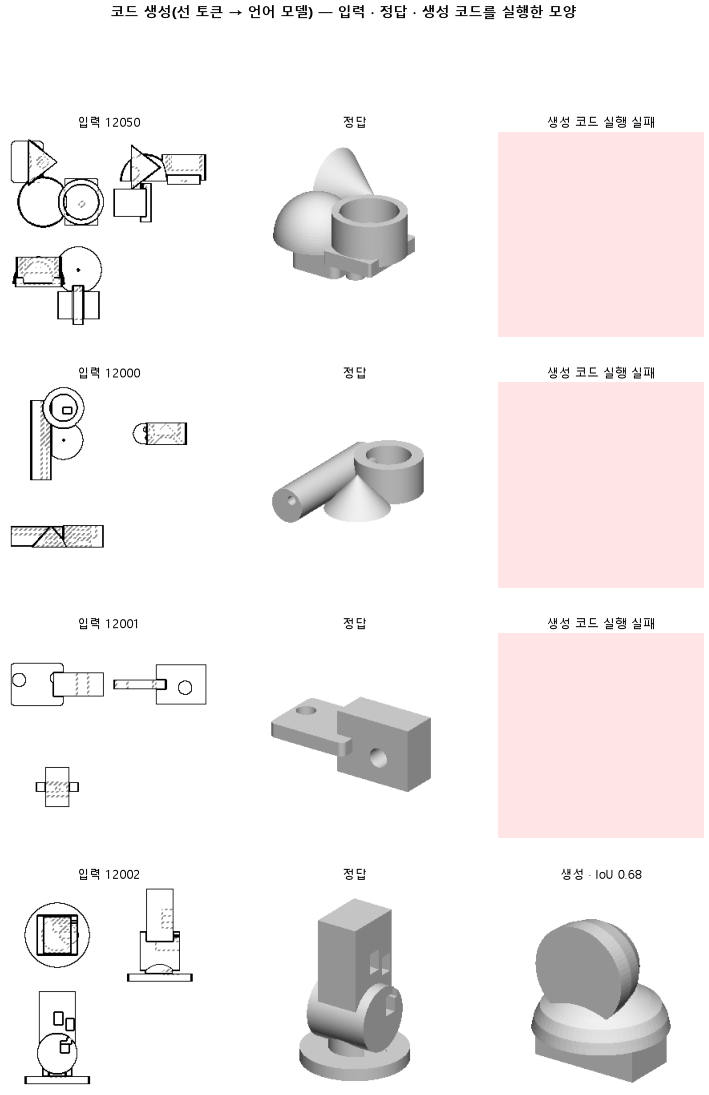
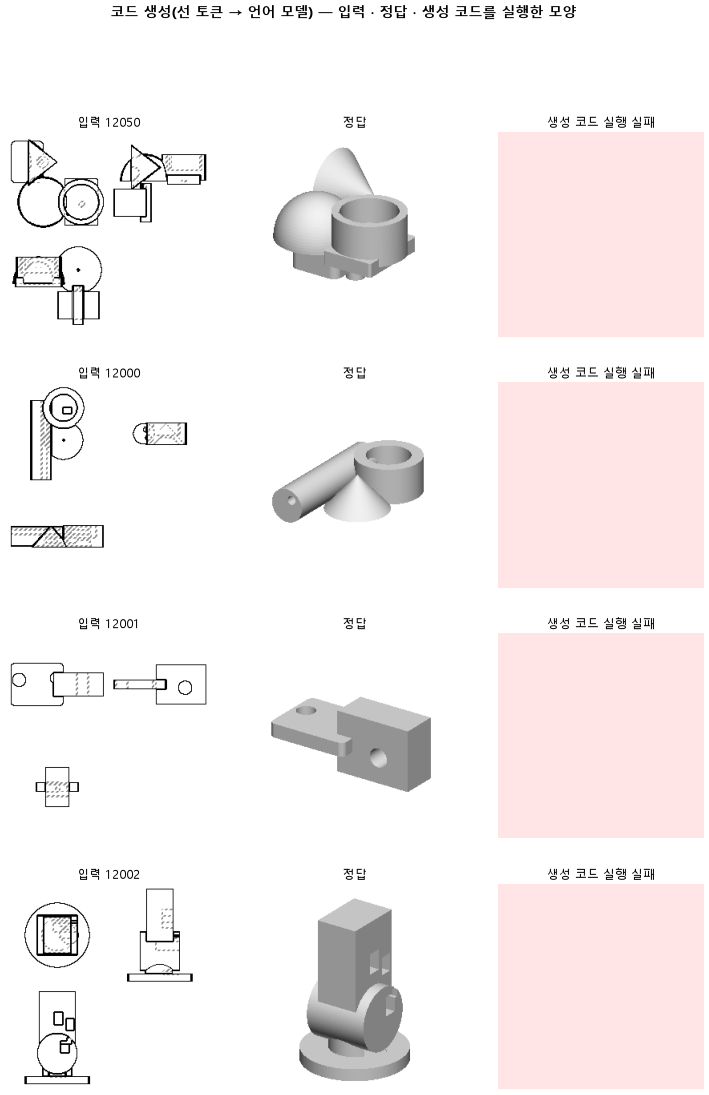
비교판 「코드」 147 참가 — 146 도면 0.500 · 147 좌표토큰 0.481 · 145 선글 0.000 · 보류(시드 1 · 1·2 위 차 +0.019 는 잡음 폭 안)
Claude-Session: https://claude.ai/code/session_01Bej1MYBJkDkDWD4aJ8vZPo

Changed region(s): [[0.6827, 0.7763, 0.9929, 1.0]]

diff --git a/docs/비교/코드/index.html b/docs/비교/코드/index.html
@@ -3,8 +3,8 @@
 body{margin:0;background:var(--bg);color:var(--ink);font:15px/1.6 "Malgun Gothic",sans-serif;word-break:keep-all}main{max-width:1080px;margin:0 auto;padding:40px max(16px,env(safe-area-inset-left,0px)) 80px;display:grid;gap:24px}a{color:inherit}.note{color:var(--muted);font-size:12.5px}.tag{font-size:11px;padding:2px 7px;border-radius:999px;background:var(--chip);color:var(--muted)}
 .box{background:var(--sheet);border:1px solid var(--rule);border-radius:12px;padding:18px 20px}table{border-collapse:collapse;width:100%;font-variant-numeric:tabular-nums}th,td{text-align:left;padding:8px 10px;border-bottom:1px solid var(--rule)}th{color:var(--muted)}.pill{font-weight:700;padding:4px 12px;border-radius:999px;background:var(--chip)}
 .cards{display:grid;grid-template-columns:repeat(auto-fill,minmax(300px,1fr));gap:12px}.card{border:1px solid var(--rule);border-radius:10px;padding:12px;display:grid;gap:8px}.card video,.card img{width:100%;border-radius:8px}</style></head><body><main>
-<nav><a href="../../index.html">← 판 목록</a></nav><header><span class="tag">비교판 · 2026-10-24</span><h1>도면을 언어 모델에 넘길 때 우리 선 토큰이 그림 그대로(ViT)보다 나은 코드를 쓰게 하나</h1></header>
-<div><span class="pill">보류</span> 시드 1 번 — 흔들림 폭을 몰라 이김을 정하지 않음 · 1 위 146도면코드 · 2 위와 차 +0.499</div>
-<section class="box"><table><thead><tr><th>방법</th><th>실루엣 IoU 중앙(주지표)</th><th>IoU 평균</th><th>코드 실행률</th></tr></thead><tbody><tr><td><a href="../../판/145선글코드/보고.html">선 토큰 → 언어 모델(우리 인코더)</a></td><td><b>0.000</b></td><td>0.237</td><td>0.455</td></tr><tr><td><a href="../../판/146도면코드/보고.html">도면 그림 → ViT → 언어 모델(순수 ViT)</a></td><td><b>0.499</b></td><td>0.468</td><td>0.870</td></tr><tr><td>판 127 덩어리 칸 디코더(코드 아님 · 같은 자) <span class=tag>참고 · 다른 판 기록</span></td><td>0.737</td><td>—</td><td>—</td></tr></tbody></table>
+<nav><a href="../../index.html">← 판 목록</a></nav><header><span class="tag">비교판 · 2026-10-25</span><h1>도면을 언어 모델에 넘길 때 우리 선 토큰이 그림 그대로(ViT)보다 나은 코드를 쓰게 하나</h1></header>
+<div><span class="pill">보류</span> 시드 1 번 — 흔들림 폭을 몰라 이김을 정하지 않음 · 1 위 146도면코드 · 2 위와 차 +0.019</div>
+<section class="box"><table><thead><tr><th>방법</th><th>실루엣 IoU 중앙(주지표)</th><th>IoU 평균</th><th>코드 실행률</th></tr></thead><tbody><tr><td><a href="../../판/145선글코드/보고.html">선 토큰 → 언어 모델(우리 인코더)</a></td><td><b>0.000</b></td><td>0.254</td><td>0.478</td></tr><tr><td><a href="../../판/146도면코드/보고.html">도면 그림 → ViT → 언어 모델(순수 ViT)</a></td><td><b>0.500</b></td><td>0.468</td><td>0.890</td></tr><tr><td><a href="../../판/147좌표토큰/보고.html">선 토큰(좌표 한 토큰) → 언어 모델</a></td><td><b>0.481</b></td><td>0.438</td><td>0.846</td></tr><tr><td>판 127 덩어리 칸 디코더(코드 아님 · 같은 자) <span class=tag>참고 · 다른 판 기록</span></td><td>0.737</td><td>—</td><td>—</td></tr></tbody></table>
 <p class="note">시험 부품 299 · 생성 코드를 실행 → 실루엣 IoU · 실행 실패 = 0</p></section>
-<section><div class="cards"><div class="card"><b>선 토큰 → 언어 모델(우리 인코더)</b><video src=code145.mp4 autoplay loop muted playsinline></video><img src="보기_145선글코드.png" alt="선 토큰 → 언어 모델(우리 인코더) — 입력 · 정답 · 생성 코드를 실행한 모양"><span class="note">선 목록을 글로 주고 언어 모델이 CadQuery 코드를 쓰게 한다</span><a href="../../판/145선글코드/보고.html">판 보고서 →</a></div><div class="card"><b>도면 그림 → ViT → 언어 모델(순수 ViT)</b><video src=code145.mp4 autoplay loop muted playsinline></video><img src="보기_146도면코드.png" alt="도면 그림 → ViT → 언어 모델(순수 ViT) — 입력 · 정답 · 생성 코드를 실행한 모양"><span class="note">도면 그림을 그대로 주고 언어 모델이 CadQuery 코드를 쓰게 한다</span><a href="../../판/146도면코드/보고.html">판 보고서 →</a></div></div></section></main></body></html>
+<section><div class="cards"><div class="card"><b>선 토큰 → 언어 모델(우리 인코더)</b><video src=code145.mp4 autoplay loop muted playsinline></video><img src="보기_145선글코드.png" alt="선 토큰 → 언어 모델(우리 인코더) — 입력 · 정답 · 생성 코드를 실행한 모양"><span class="note">선 목록을 글로 주고 언어 모델이 CadQuery 코드를 쓰게 한다</span><a href="../../판/145선글코드/보고.html">판 보고서 →</a></div><div class="card"><b>도면 그림 → ViT → 언어 모델(순수 ViT)</b><video src=code145.mp4 autoplay loop muted playsinline></video><img src="보기_146도면코드.png" alt="도면 그림 → ViT → 언어 모델(순수 ViT) — 입력 · 정답 · 생성 코드를 실행한 모양"><span class="note">도면 그림을 그대로 주고 언어 모델이 CadQuery 코드를 쓰게 한다</span><a href="../../판/146도면코드/보고.html">판 보고서 →</a></div><div class="card"><b>선 토큰(좌표 한 토큰) → 언어 모델</b><video src=code145.mp4 autoplay loop muted playsinline></video><img src="보기_147좌표토큰.png" alt="선 토큰(좌표 한 토큰) → 언어 모델 — 입력 · 정답 · 생성 코드를 실행한 모양"><span class="note">선 글의 좌표를 숫자 조각이 아니라 좌표 토큰 하나로 읽게 한다</span><a href="../../판/147좌표토큰/보고.html">판 보고서 →</a></div></div></section></main></body></html>
